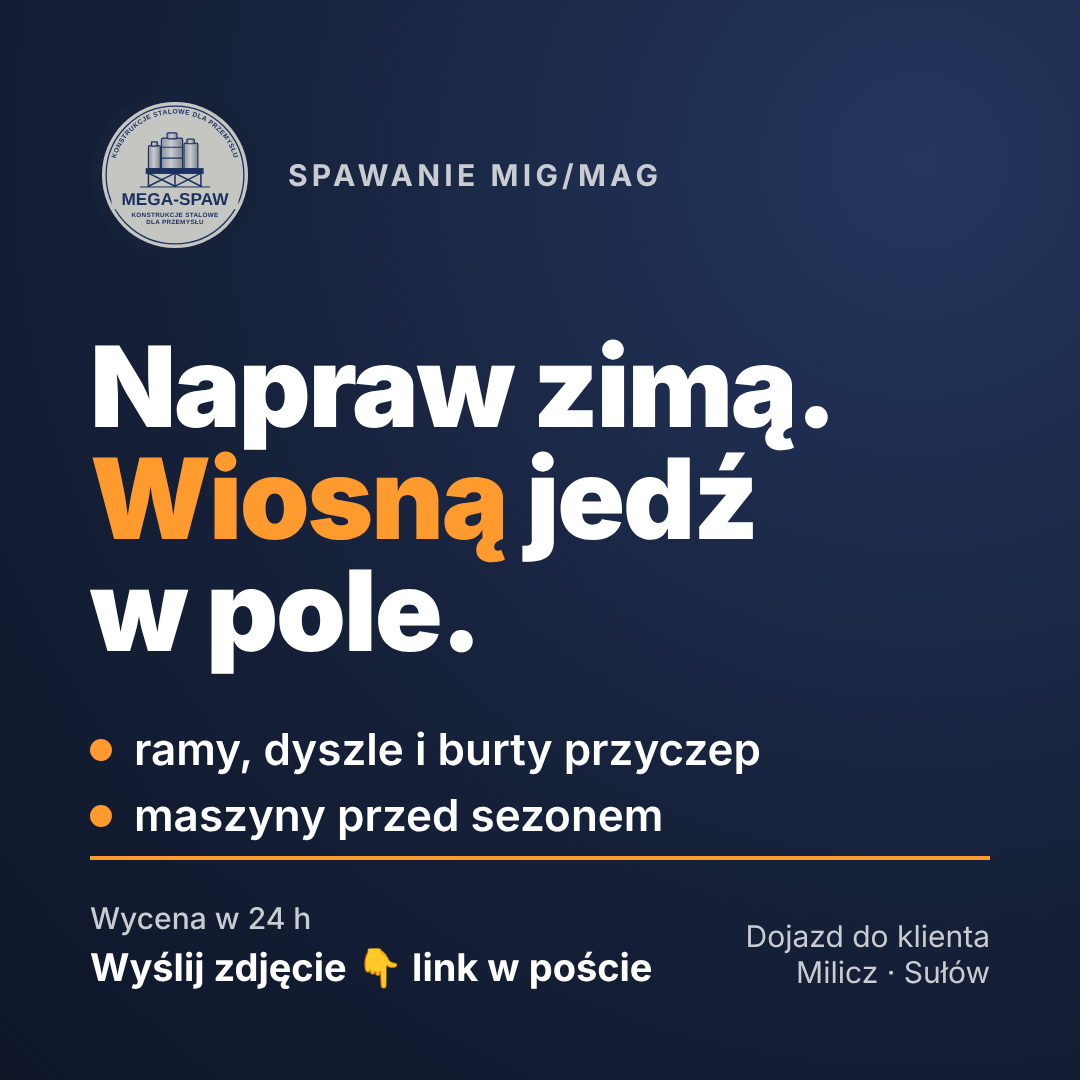
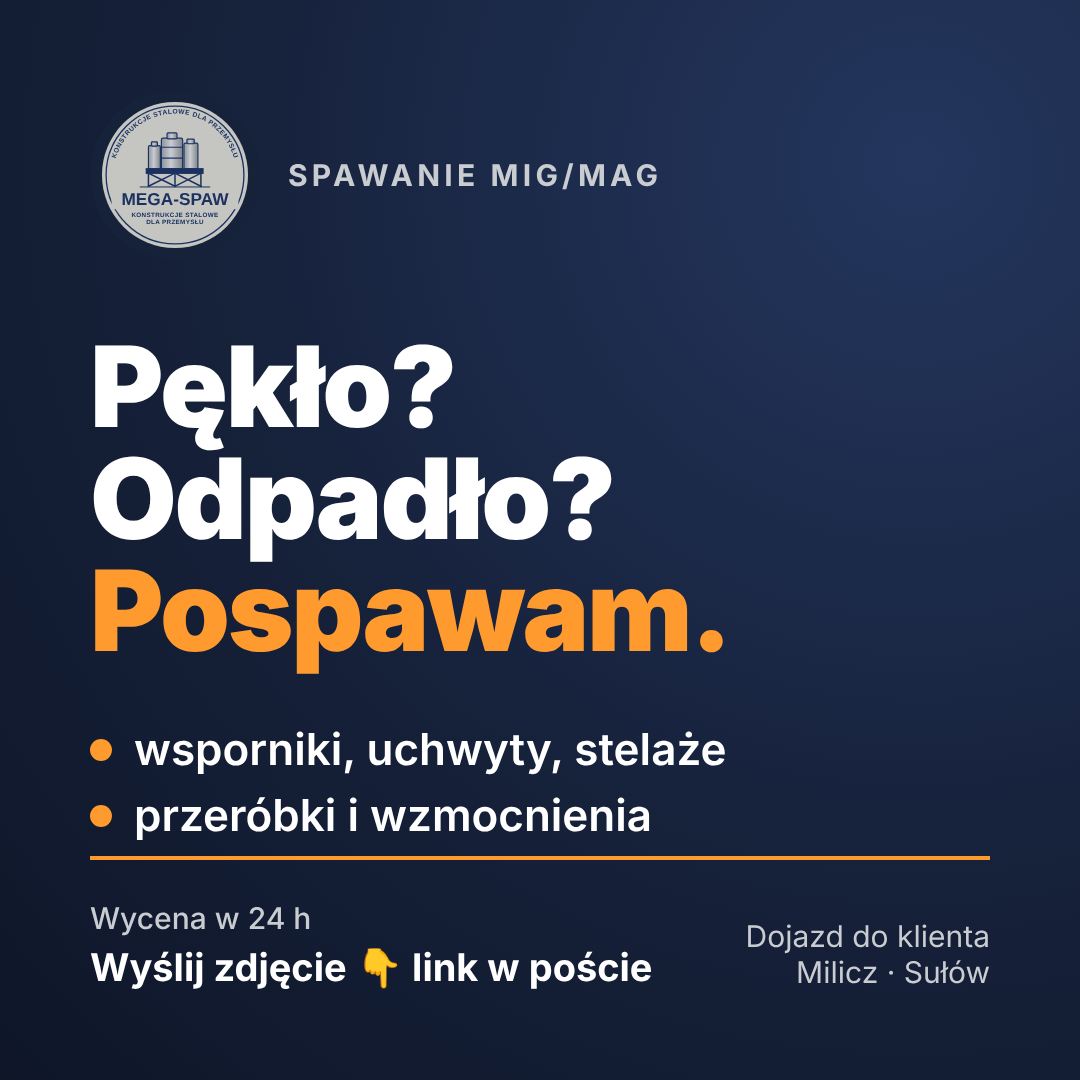
Studio: grafiki MIG/MAG bez maszyn rolniczych i przyczep
Claude-Session: https://claude.ai/code/session_018fAWz72vQ8a3EEiUA277fQ

Changed region(s): [[0.0611, 0.3056, 0.7639, 0.6417], [0.1222, 0.6722, 0.7028, 0.7944]]

diff --git a/studio/projekty/2026-11-26-spawanie-mig-mag-ogloszenie/grafiki.html b/studio/projekty/2026-11-26-spawanie-mig-mag-ogloszenie/grafiki.html
@@ -26,14 +26,14 @@
 </head>
 <body>
 
-<!-- Wersja 1: „Coś pękło przed sezonem?” -->
+<!-- Wersja 1: „Masz coś do pospawania?” -->
 <div class="g" id="v1">
   <div class="top"><img class="logo" src="../../../mega-spaw/img/logo-mega-spaw.svg" alt=""><div class="tag">Spawanie MIG/MAG</div></div>
-  <h1>Coś pękło<br>przed <em>sezonem?</em></h1>
+  <h1>Masz coś<br>do <em>pospawania?</em></h1>
   <ul>
-    <li>maszyny rolnicze i przyczepy</li>
     <li>konstrukcje stalowe i ramy</li>
-    <li>bramy i balustrady</li>
+    <li>bramy, furtki, balustrady</li>
+    <li>naprawy elementów ze stali</li>
   </ul>
   <div class="bottom">
     <div class="cta"><small>Wycena w 24 h</small>Wyślij zdjęcie 👇 link w poście</div>
@@ -41,13 +41,13 @@
   </div>
 </div>
 
-<!-- Wersja 2: „Zimą napraw” -->
+<!-- Wersja 2: „Pękło? Odpadło? Pospawam.” -->
 <div class="g" id="v2">
   <div class="top"><img class="logo" src="../../../mega-spaw/img/logo-mega-spaw.svg" alt=""><div class="tag">Spawanie MIG/MAG</div></div>
-  <h1>Napraw zimą.<br><em>Wiosną</em> jedź<br>w pole.</h1>
+  <h1>Pękło?<br>Odpadło?<br><em>Pospawam.</em></h1>
   <ul>
-    <li>ramy, dyszle i burty przyczep</li>
-    <li>maszyny przed sezonem</li>
+    <li>wsporniki, uchwyty, stelaże</li>
+    <li>przeróbki i wzmocnienia</li>
   </ul>
   <div class="bottom">
     <div class="cta"><small>Wycena w 24 h</small>Wyślij zdjęcie 👇 link w poście</div>
